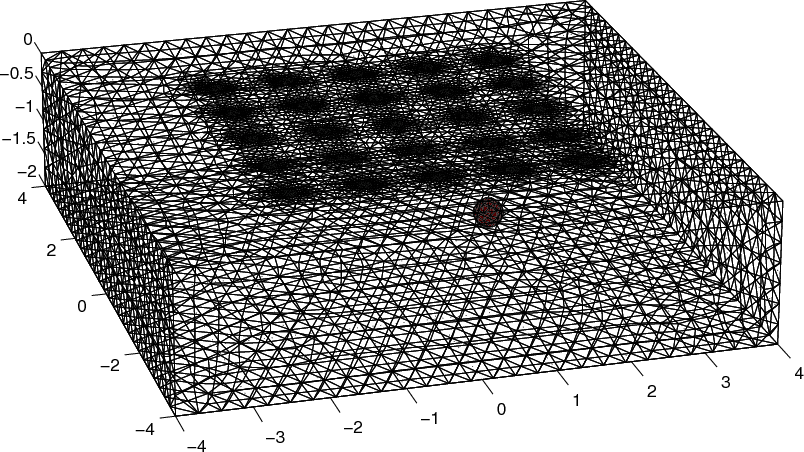
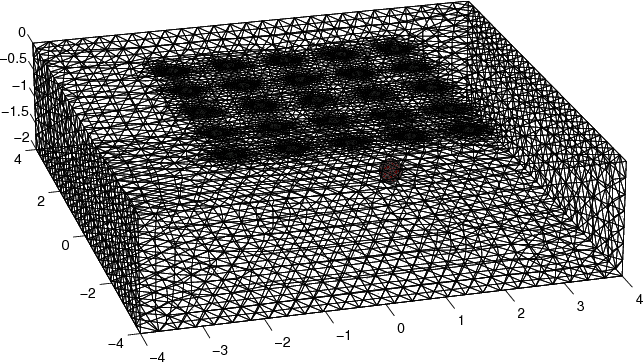
Surface 3D array simulation
git-svn-id: svn+ssh://svn.code.sf.net/p/eidors3d/code/trunk@3246 82006732-fb7e-4a22-9f28-86a212cce563

diff --git a/htdocs/tutorial/geophysics/surface_sim03.m b/htdocs/tutorial/geophysics/surface_sim03.m
@@ -1,14 +1,11 @@
-if 0
 shape_str = ['solid top    = plane(0,0,0;0,0,1);\n' ...
              'solid block  = orthobrick(-4,-4,-2;4,4,2) -maxh=0.3;\n' ...
              'solid mainobj= top and block;\n'];
-[fmdl,mat_idx] = ng_mk_gen_models(shape_str, elec_pos, elec_shape, elec_obj);
-fmdl.stimulation = mk_stim_patterns(size(fmdl.electrode,2), 1, ... %rings
-    [0,7], [0,7], {'no_meas_current'},1);
-end
+fmdl = ng_mk_gen_models(shape_str, elec_pos, elec_shape, elec_obj);
+fmdl.stimulation = stim;
 
 % inverse model: a smaller region directly over the electrodes with coarser mesh
-shape_str = 'solid mainobj= orthobrick(-5,-5,-2.0;5,5,-0.2) -maxh=0.5;';
+shape_str = 'solid mainobj= orthobrick(-3,-3,-2.0;3,3,-0.2) -maxh=0.5;';
 cmdl = ng_mk_gen_models(shape_str, [], [], '');
 
 % define the mapping between the two meshes
@@ -17,8 +14,13 @@ c2f= mk_coarse_fine_mapping( fmdl, cmdl);
 % set the reconstruction parameters
 inv3d= select_imdl(fmdl, {'Basic GN dif'});
 inv3d.solve= @inv_solve_diff_GN_one_step;
-inv3d.hyperparameter.value = 1e-1;
-inv3d.RtR_prior= @laplace_image_prior;
-inv3d.RtR_prior= @prior_noser;
+inv3d.hyperparameter.value = 1e-3;
+inv3d.RtR_prior= @prior_laplace;
+%inv3d.RtR_prior= @prior_tikhonov;
 inv3d.fwd_model.coarse2fine = c2f;
 inv3d.rec_model = cmdl;
+
+hh= show_fem(cmdl); set(hh,'EdgeColor',[0,0,1]);
+hold on; show_fem(fmdl); hold off
+view(-16,22); set(gca,'Projection','perspective')
+print_convert surface_sim03a.png '-density 100'

diff --git a/htdocs/tutorial/geophysics/surface_sim01.m b/htdocs/tutorial/geophysics/surface_sim01.m
@@ -1,3 +1,6 @@
+stim = mk_stim_patterns(size(fmdl.electrode,2), 1, ... %rings
+    [0,7], [0,7], {'no_meas_current'},1);
+
 shape_str = ['solid top    = plane(0,0,0;0,0,1);\n' ...
              'solid block  = orthobrick(-4,-4,-2;4,4,2) -maxh=0.3;\n' ...
              'solid ball   = sphere(1,-1,-1;0.2); tlo ball;\n' ...
@@ -6,11 +9,10 @@ shape_str = ['solid top    = plane(0,0,0;0,0,1);\n' ...
 elec_pos = [epos_x(:), epos_y(:), ones(size(epos_x(:)))*[0,0,0,1] ];
 elec_shape=[0.1];
 elec_obj = 'top';
-[fmdl,mat_idx] = ng_mk_gen_models(shape_str, elec_pos, elec_shape, elec_obj);
-fmdl.stimulation = mk_stim_patterns(size(fmdl.electrode,2), 1, ... %rings
-    [0,7], [0,7], {'no_meas_current'},1);
+fmdl = ng_mk_gen_models(shape_str, elec_pos, elec_shape, elec_obj);
+fmdl.stimulation = stim;
 img= mk_image(fmdl,1);
-img.elem_data(mat_idx{2}) = 2;
+img.elem_data(fmdl.mat_idx{2}) = 2;
 
 show_fem(img); view(-16,22); set(gca,'Projection','perspective')
-print_convert surface_sim01a.png
+print_convert surface_sim01a.png '-density 100'

diff --git a/htdocs/tutorial/geophysics/surface_sim04.m b/htdocs/tutorial/geophysics/surface_sim04.m
@@ -1,4 +1,9 @@
 imgr = inv_solve(inv3d, vh, vi);
 
-show_fem(imgr);
-show_slices(imgr,3)
+show_fem(imgr); view(-16,22); set(gca,'Projection','perspective')
+print_convert surface_sim04a.png '-density 100'
+
+% Set levels for z-intercepts of -0.4,-1.0,-1.6
+levels= [inf,inf,-0.4,1,1; inf,inf,-1.0,2,1; inf,inf,-1.6,3,1];
+show_slices(imgr,levels)
+print_convert surface_sim04b.png '-density 150'

diff --git a/htdocs/tutorial/geophysics/surface_sim02.m b/htdocs/tutorial/geophysics/surface_sim02.m
@@ -3,4 +3,4 @@ vi = fwd_solve(img);
 img.elem_data(:) = 1;
 vh = fwd_solve(img);
 
-vi = add_noise(1e100, vi, vh);
+vi = add_noise(5, vi, vh); %SNR=5
